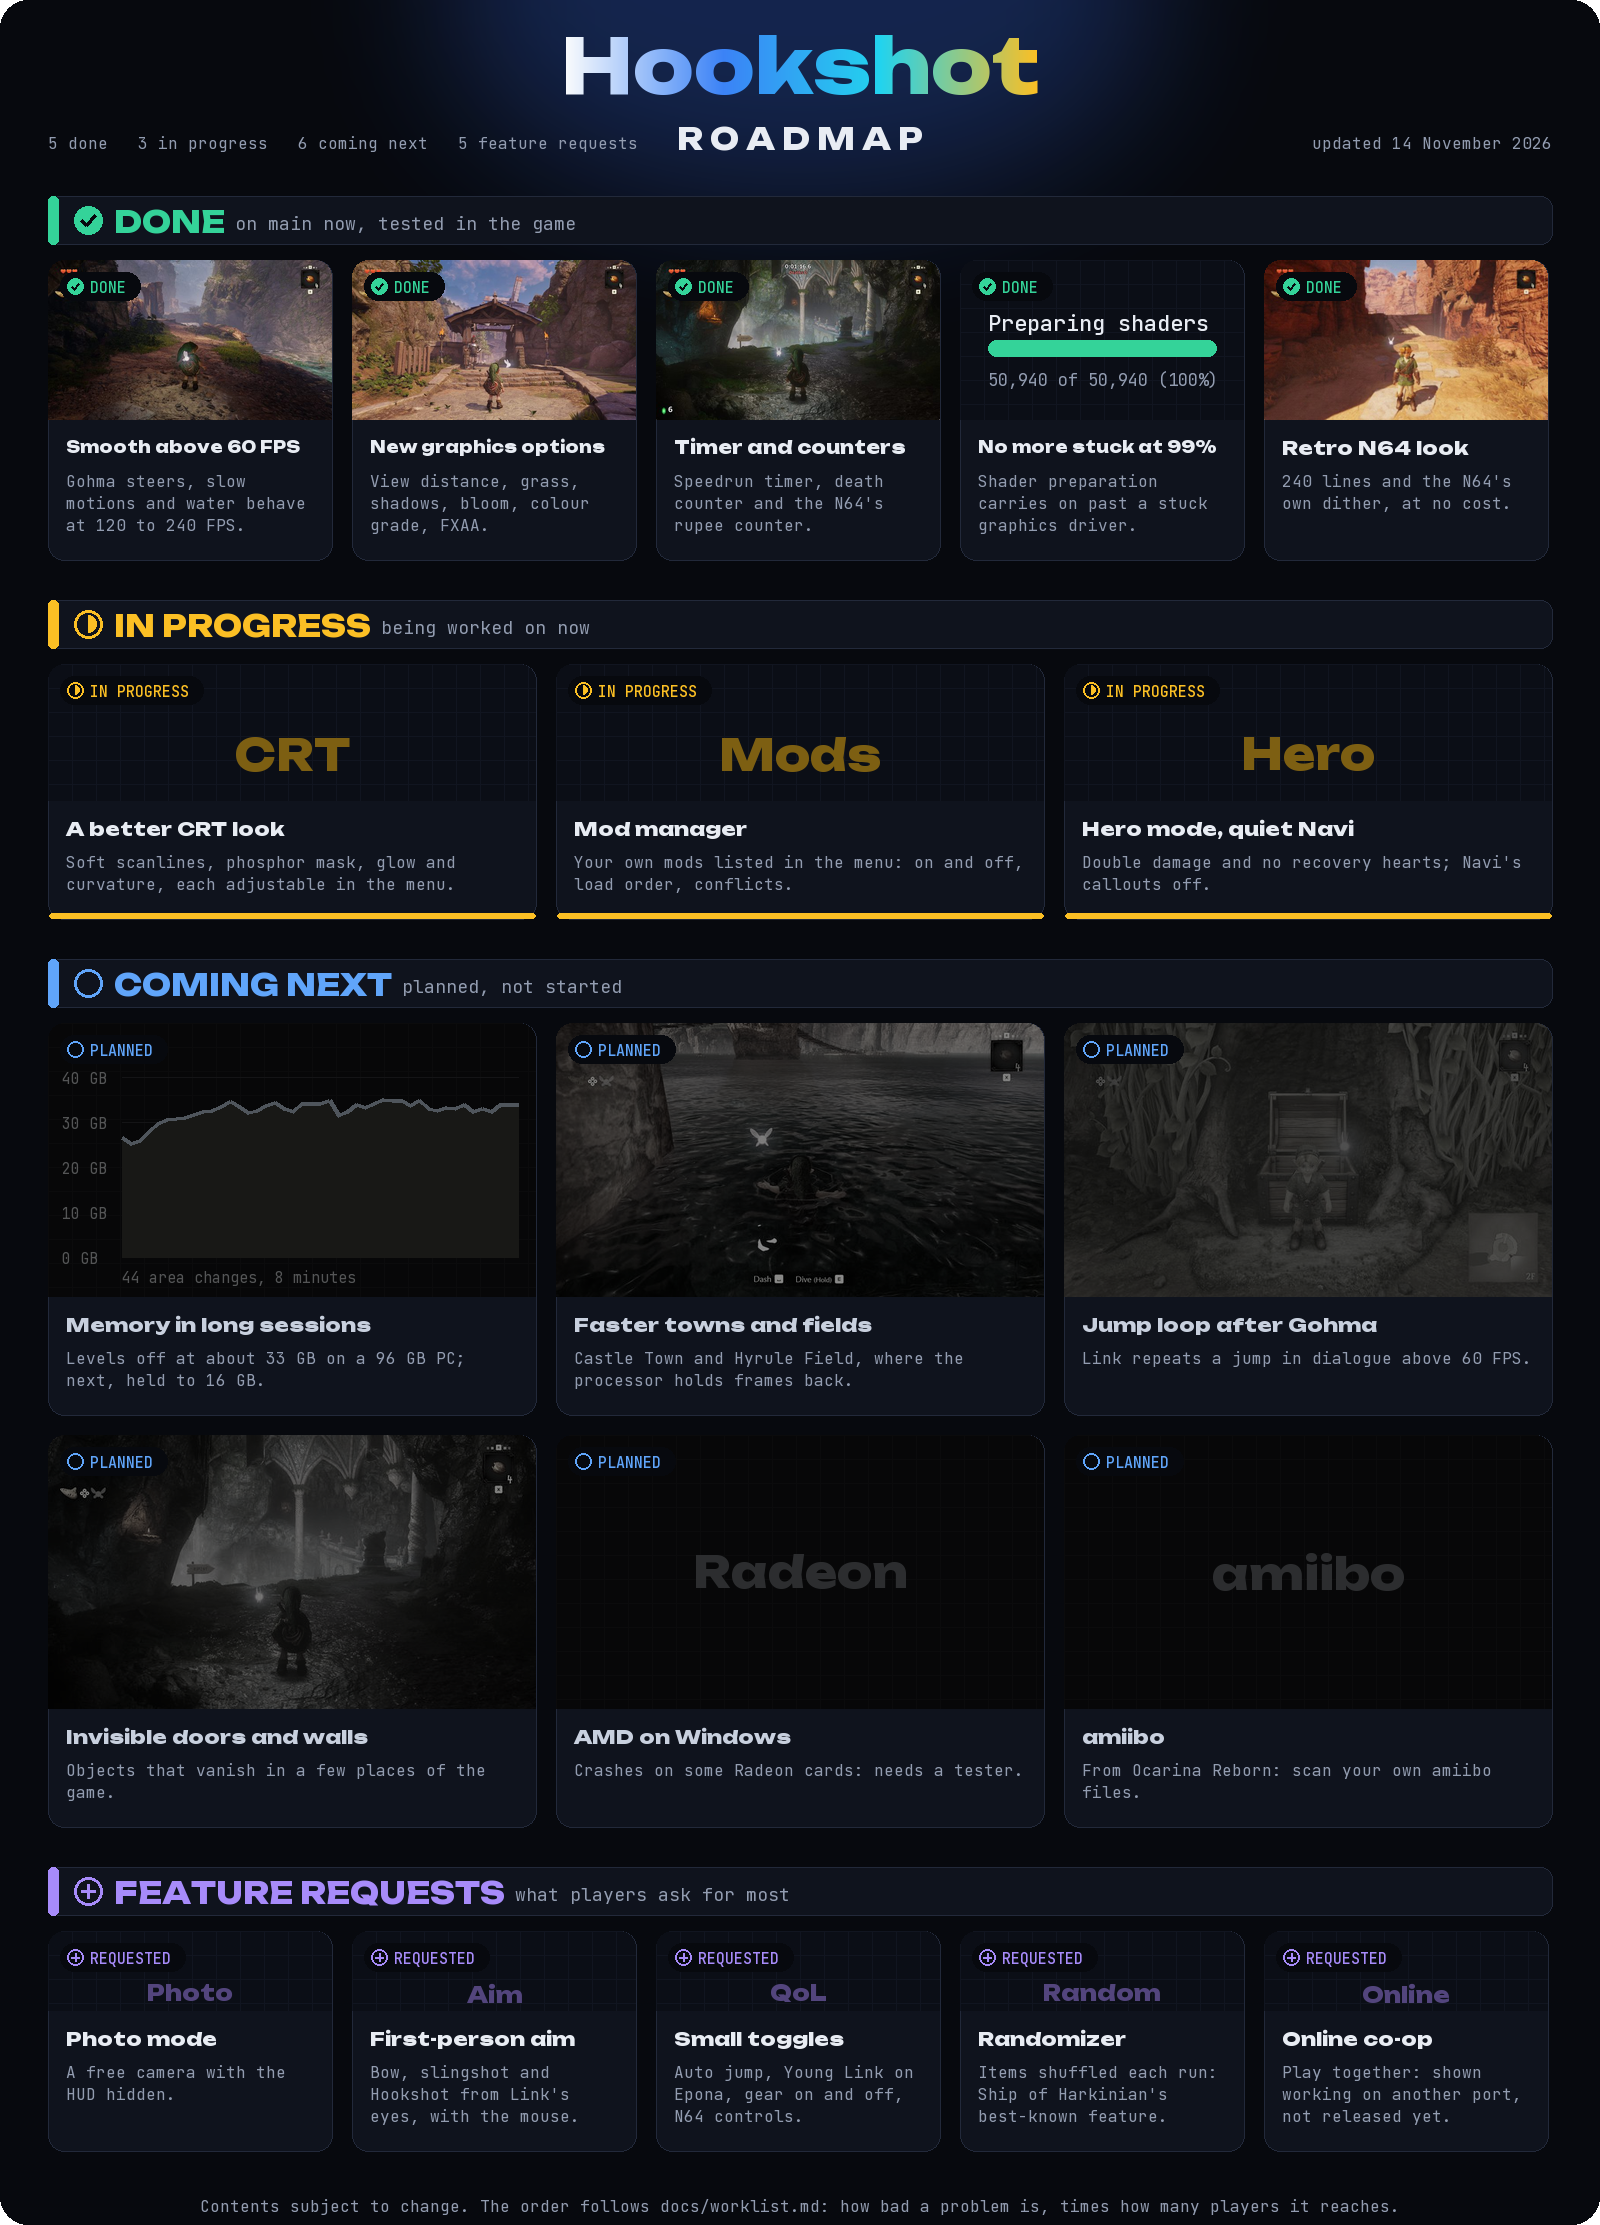
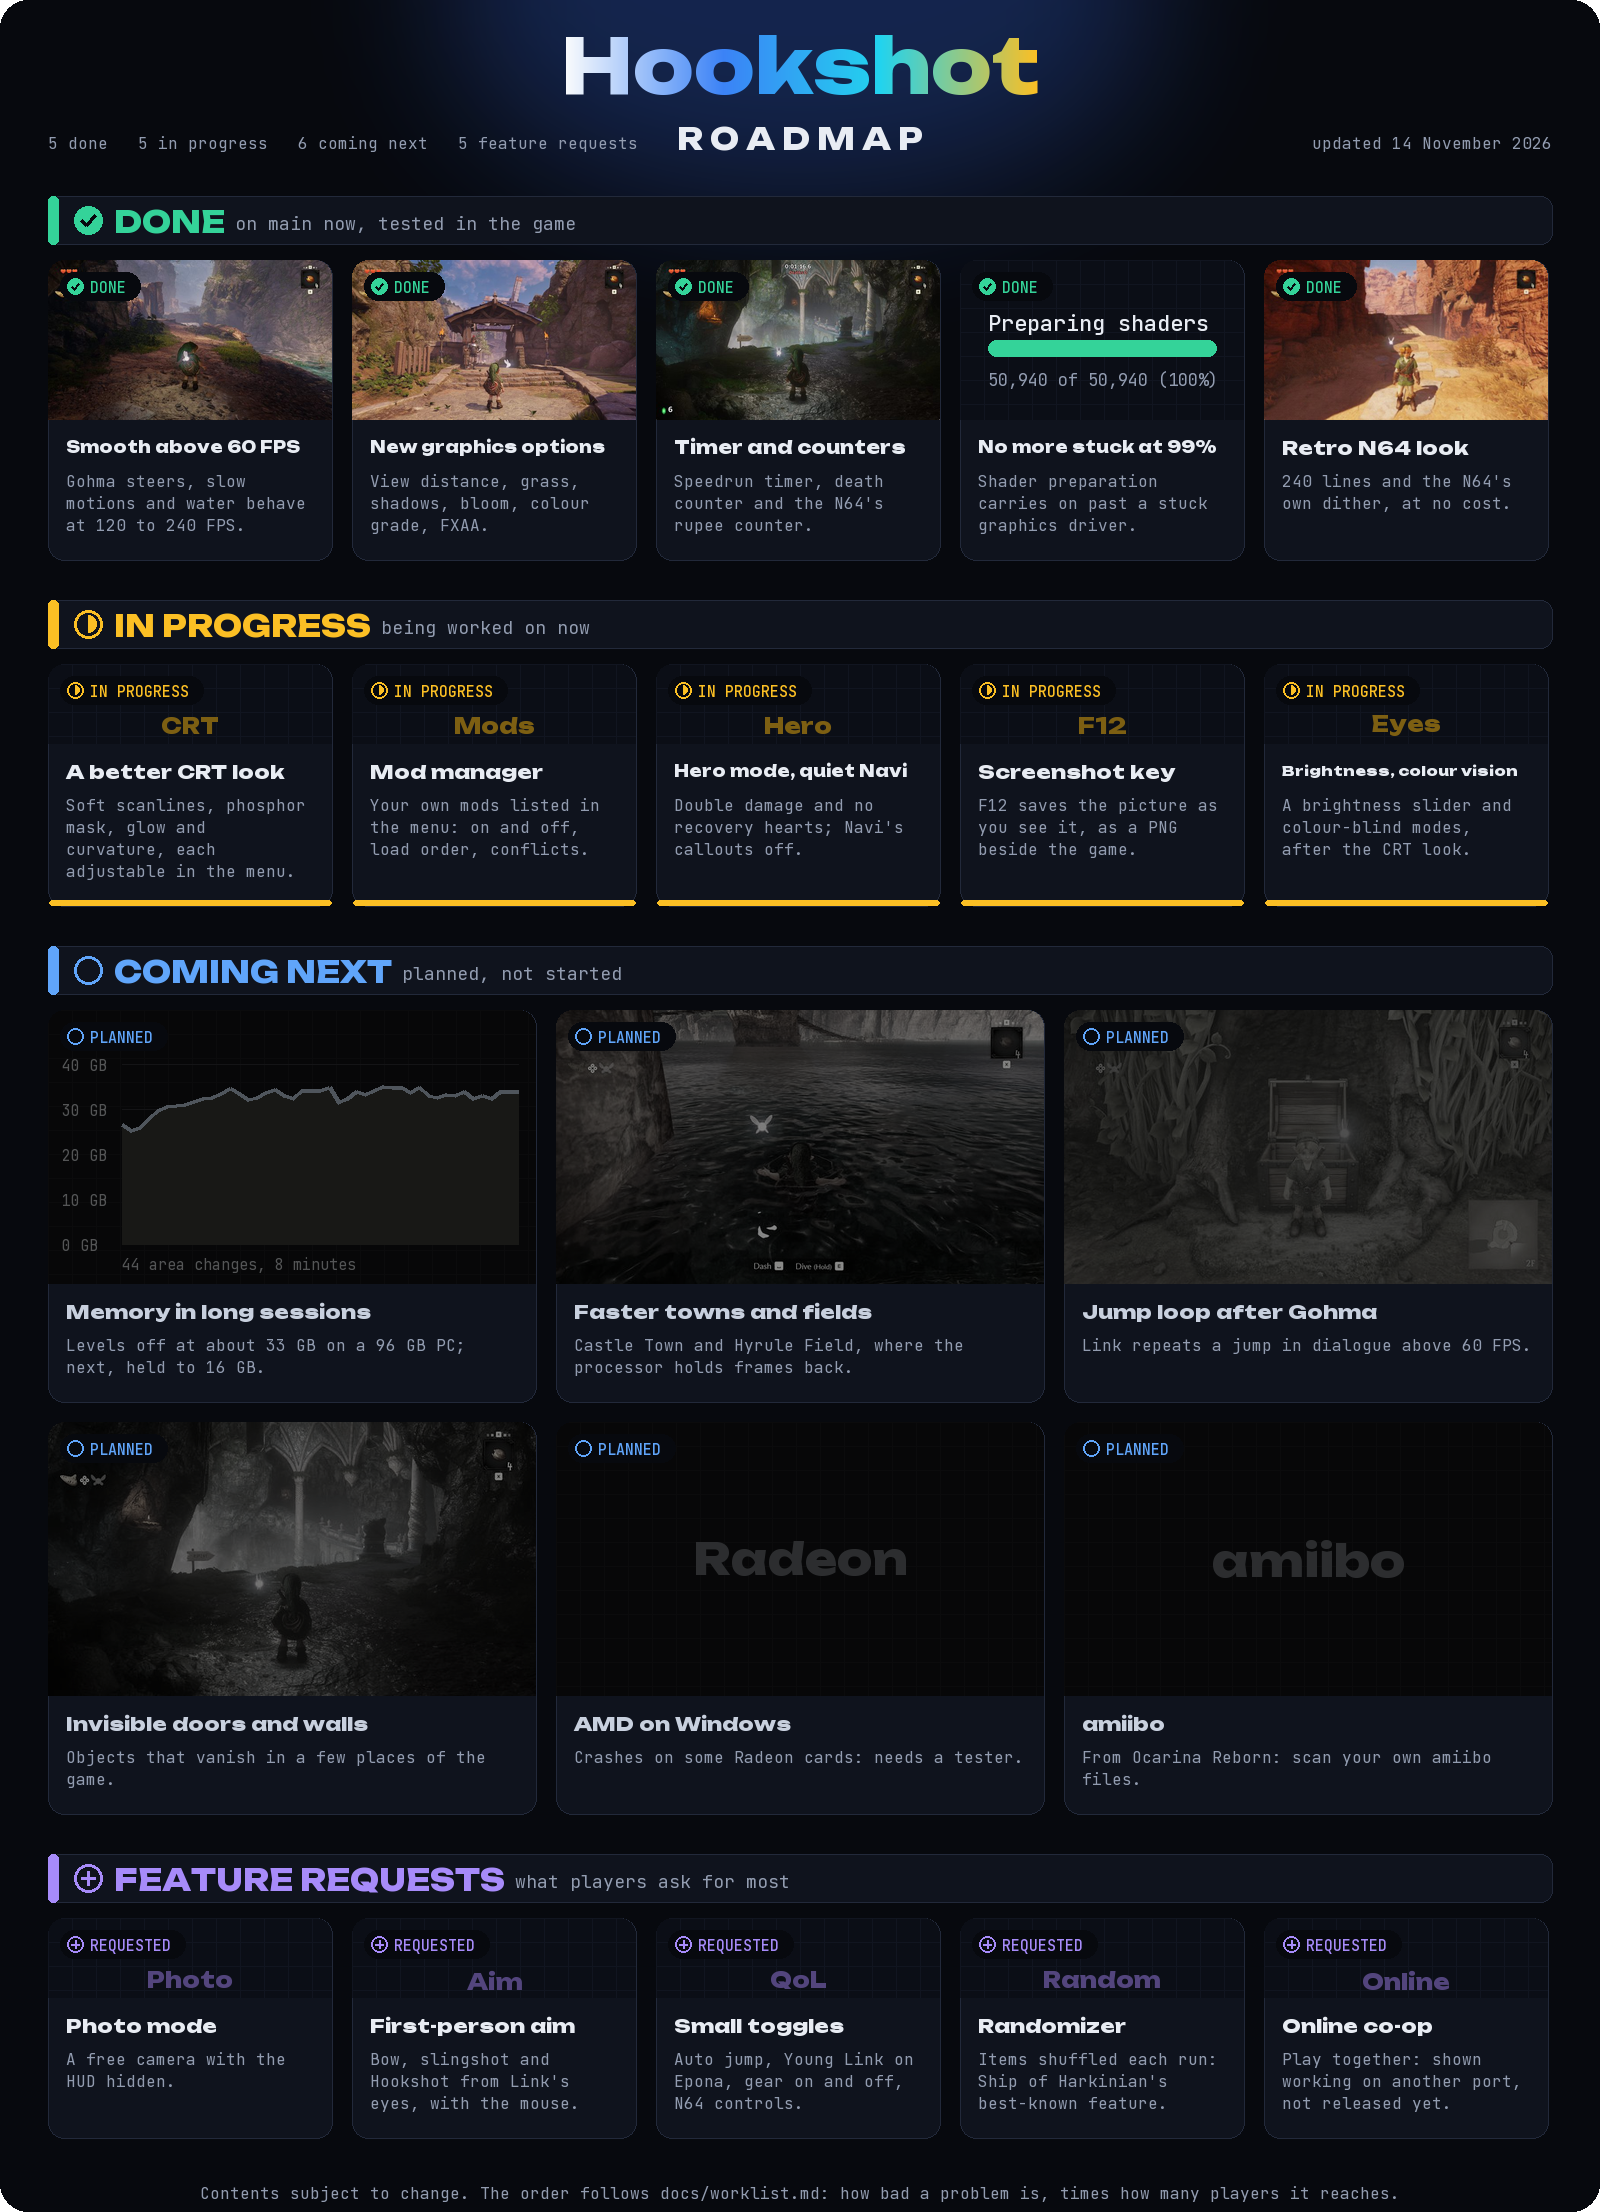
docs(roadmap): two quick wins in progress, a screenshot key and brightness with colour vision modes

diff --git a/scripts/make_roadmap.py b/scripts/make_roadmap.py
@@ -34,6 +34,8 @@ STAGES = [
         ("panel:name:CRT", "A better CRT look", "Soft scanlines, phosphor mask, glow and curvature, each adjustable in the menu."),
         ("panel:name:Mods", "Mod manager", "Your own mods listed in the menu: on and off, load order, conflicts."),
         ("panel:name:Hero", "Hero mode, quiet Navi", "Double damage and no recovery hearts; Navi's callouts off."),
+        ("panel:name:F12", "Screenshot key", "F12 saves the picture as you see it, as a PNG beside the game."),
+        ("panel:name:Eyes", "Brightness, colour vision", "A brightness slider and colour-blind modes, after the CRT look."),
     ]),
     ("next", "COMING NEXT", "planned, not started", BLUE, [
         ("chart:memory", "Memory in long sessions", "Levels off at about 33 GB on a 96 GB PC; next, held to 16 GB."),

diff --git a/readme.md b/readme.md
@@ -136,7 +136,7 @@ when the game closes.
 ## Roadmap
 
 <p align="center">
-  <img src="assets/brand/roadmap.png" alt="Hookshot roadmap: 5 done, 3 in progress, 6 coming next, 5 feature requests, each as a card. The same items are listed as text below." width="820">
+  <img src="assets/brand/roadmap.png" alt="Hookshot roadmap: 5 done, 5 in progress, 6 coming next, 5 feature requests, each as a card. The same items are listed as text below." width="820">
 </p>
 
 **Done** is on `main` now. **In progress** is being worked on at the moment. **Coming next** is planned but not
@@ -165,6 +165,8 @@ reaches.
   the menu (after Timothy Lottes' public-domain CRT shader)
 - **Mod manager:** your own mods listed in the menu, on and off, their load order and conflicts
 - **Hero mode and quiet Navi:** double damage and no recovery hearts; Navi's callouts off
+- **Screenshot key:** F12 saves the picture as you see it (with the Retro look or Colour grade), as a PNG beside the game
+- **Brightness and colour vision:** a brightness slider for non-HDR displays and colour-blind modes (next after the CRT look)
 
 **⚪ Coming next**: planned, not started
 
